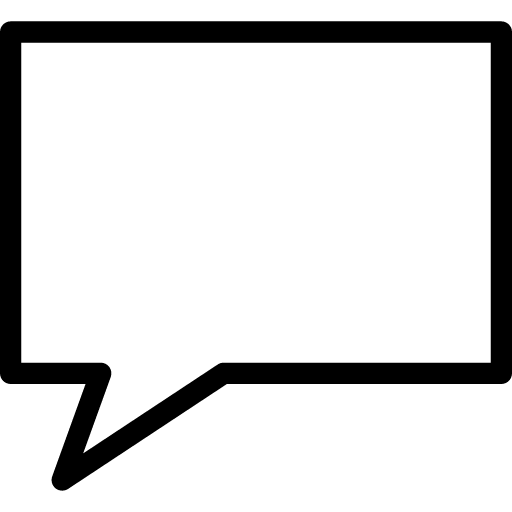
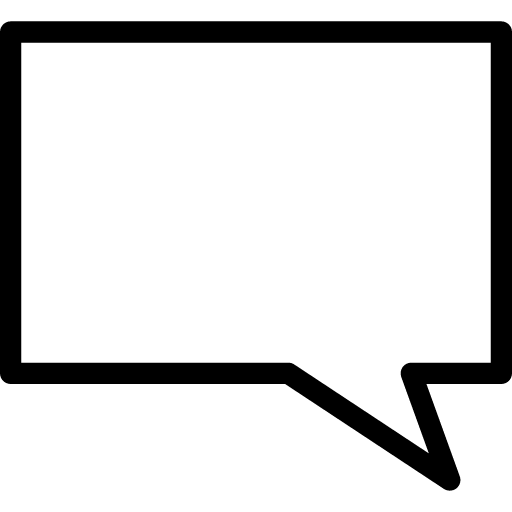
fixing position breaks

Changed region(s): [[0.5625, 0.6875, 0.9062, 0.9688], [0.0938, 0.6875, 0.4375, 0.9688]]

diff --git a/easymode.html b/easymode.html
@@ -14,18 +14,24 @@
 
           <h1>Instructions</h1>
 
-          <div id="easyInstruction">
-            <p>I'm thinking of a number <br> between 1 and 30. <br> Can you guess what number <br>it is???</p>
-          </div>
-
           <div id="secondContainer">
-              <div id="quoteBubble" onload="thoughtBubble()"></div>
+              <div id="quoteBubble" onload="thoughtBubble()">
+                  <div>
+                    <p id="quouteBubbleText">I'm thinking of a
+                      <br> number between 1 and 30.
+                      <br> Can you guess what
+                      <br> number it is???
+                    </p>
+                  </div>
+              </div>
                 <img id="sadFace" src="./Images_Folder/Sad_face_icon.png">
                   <img id="happyFace" src="./Images_Folder/Happy_face_icon.png">
                   <img id="thumbsUp" src="./Images_Folder/Thumbs_up_icon.png">
                 <img id="thinkingFace" src="./Images_Folder/Thinking_face_icon.png">
               </div>
-                <div id="randomNumber" type="number"></div>
+              <div id="randomNumber" type="number"></div>
+
+              <div class="bottomContainer">
                 <h2>You will have <em id="counter">5</em> turns to find the correct answer</h2>
 
                 <input id="easyInput" type="number">
@@ -34,6 +40,9 @@
                 <p id="message">Type in a number and click Guess</p>
 
                 <h5 type="button" onClick="location.href='menu.html'" value="click here">Main Menu</h5>
+
+              </div>
+
           </div>
       </div>
     </div>

diff --git a/easymode.css b/easymode.css
@@ -12,8 +12,7 @@
 #secondContainer{
   width: 60%;
   margin-left: 20%;
-  position: relative;
-  bottom: 150px;
+  margin-top: 2em;
 }
 
 #container > h1{
@@ -31,6 +30,17 @@
 #quoteBubble{
   width: 100%;
   height: 32em;
+  padding: 30px;
+  display: flex;
+  justify-content: center;
+  align-items: center;
+}
+
+#quouteBubbleText{
+  position: relative;
+  bottom: 70px;
+  font-size: 30px;
+  text-align: center;
 }
 
 .originalTalkBubble{
@@ -38,7 +48,6 @@
   background-repeat: no-repeat;
   background-position: center;
   background-size: contain;
-  transform: scaleX(-1);
 }
 
 .wrongAnswerBubble{
@@ -47,7 +56,6 @@
   background-position: center;
   background-size: contain;
   transform: none;
-
 }
 
 .rightAnswerBubble{
@@ -56,7 +64,6 @@
   background-position: center;
   background-size: contain;
   transform: none;
-
 }
 
 #sadFace{
@@ -128,8 +135,6 @@ h5{
   font-size: 30px;
   color: #117D11;
   cursor: pointer;
-  position: relative;
-  bottom: 30px;
 }
 
 h5:hover{
@@ -144,24 +149,20 @@ h5:hover{
   height: 70px;
   text-align: center;
   font-size: 35px;
-  position: relative;
-  left: 29%;
+  position: absolute;
+  left: 22%;
   bottom: 660px;
+  top: 240px;
 }
 
-h2, #message{
-  text-align: center;
-  position: relative;
-  bottom: 150px;
-}
 
 #message{
+  text-align: center;
   font-size: 20px;
   margin-top: 5px;
 }
 
-#easyInput, #easyBtn{
-  position: relative;
-  left: 36%;
-  bottom: 150px;
+
+.bottomContainer{
+  text-align: center;
 }

diff --git a/numbergame.js b/numbergame.js
@@ -7,7 +7,7 @@ let happyFace = document.getElementById('happyFace');
 let thumbsUp = document.getElementById('thumbsUp');
 let thinkingFace = document.getElementById('thinkingFace');
 let randomNumber = document.getElementById('randomNumber');
-let bubbleStatement = document.querySelector('p');
+let bubbleStatement = document.getElementById('quouteBubbleText');
 let numberToGuessEM = 0;
 let counter = document.getElementById('counter');
 let countDown = 5;
@@ -72,7 +72,6 @@ function countingDown(){
     }
   })
 }
-
 
 thoughtBubble();
 countingDown();
